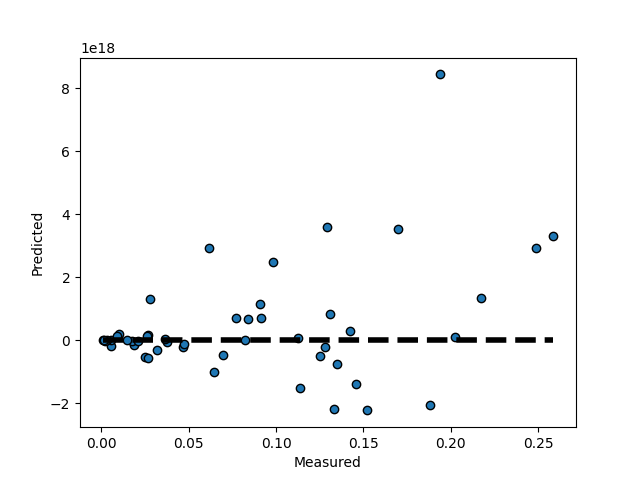
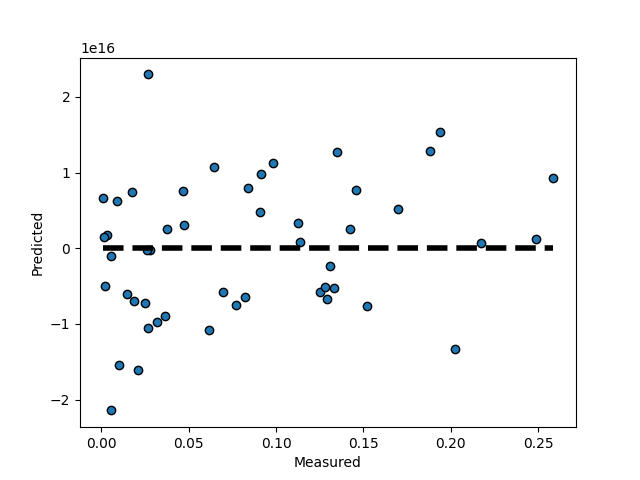
add training on simple features

diff --git a/main.py b/main.py
@@ -13,7 +13,8 @@ if not os.path.exists(OUT_FOLDER):
     os.mkdir(OUT_FOLDER)
 
 def main(filename):
-    build_all_space_time_point_clouds('./data/dataset_list.csv')
+    # build_all_space_time_point_clouds('./data/dataset_list.csv')
+    build_all_simple_features('./data/dataset_list.csv')
     # build_training_data('./data/dataset_list.csv')
     # generate_takens('data/dataset_list.csv')
 
@@ -79,6 +80,39 @@ def build_training_data(dataset_list_filename, force_all = False):
             df.loc[index, ['avg-risk-score', 'median-risk-score']] = [avg, median]
             df.to_csv(dataset_list_filename, index=False)
     return
+
+def build_all_simple_features(dataset_list_filename):
+    df = pd.read_csv(dataset_list_filename)
+    total = len(df)
+    X = []
+    y_avg = []
+    y_med = []
+    for index, row in df.iterrows():
+        filename = row['filename']
+        avg_risk = row['avg-risk-score']
+        med_risk = row['median-risk-score']
+        to_print = '|---- [{} / {}] {} '.format(index+1, total, filename)
+        padding = 99 - len(to_print)
+        to_print += padding*'-' + '|'
+        print(to_print)
+        feature = trajectory_to_simple_feature(filename)
+        print(feature)
+        X.append(feature)
+        y_avg.append(avg_risk)
+        y_med.append(med_risk)
+    np.savez('./simple_feature/full_dataset.npz', X = np.array(X), y_avg = np.array(y_avg), y_med = np.array(y_med))
+    return
+
+def trajectory_to_simple_feature(filename):
+    data = build_data_structures(filename)
+    trajectories, frames, col_keys = data
+    (t_key, x_key, y_key, id_key) = col_keys
+    
+    num_frames = len(frames)
+    avg_trajectories = frames[id_key].count().mean()
+    num_trajectories = len(trajectories)
+
+    return np.array([num_frames, avg_trajectories, num_trajectories])
 
 def build_all_space_time_point_clouds(dataset_list_filename):
     df = pd.read_csv(dataset_list_filename)

diff --git a/load_feature_vectors.py b/load_feature_vectors.py
@@ -1,7 +1,7 @@
 import os
 import numpy as np
 
-inFolder = './space_time_feature/'
+inFolder = './simple_feature/'
 inFilename = 'full_dataset.npz' 
 
 full_dataset = np.load(inFolder + inFilename)
